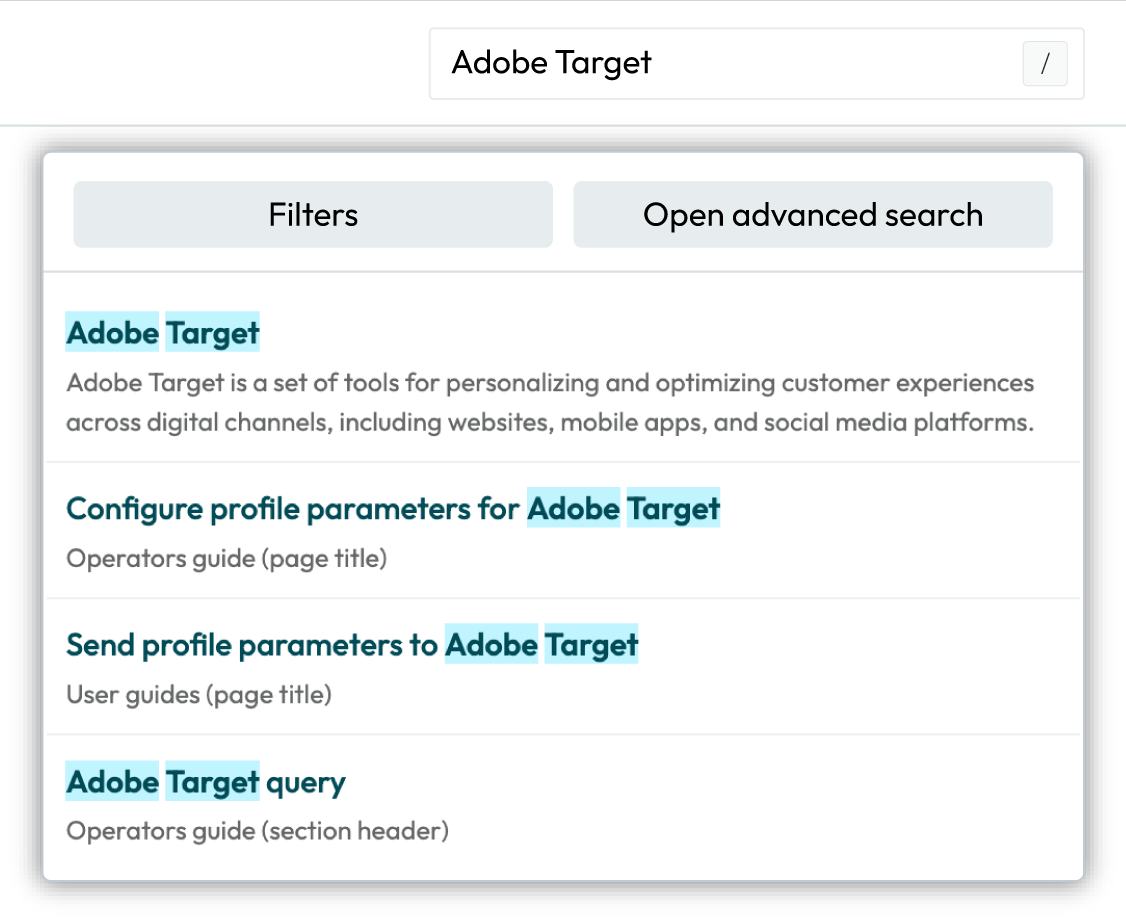
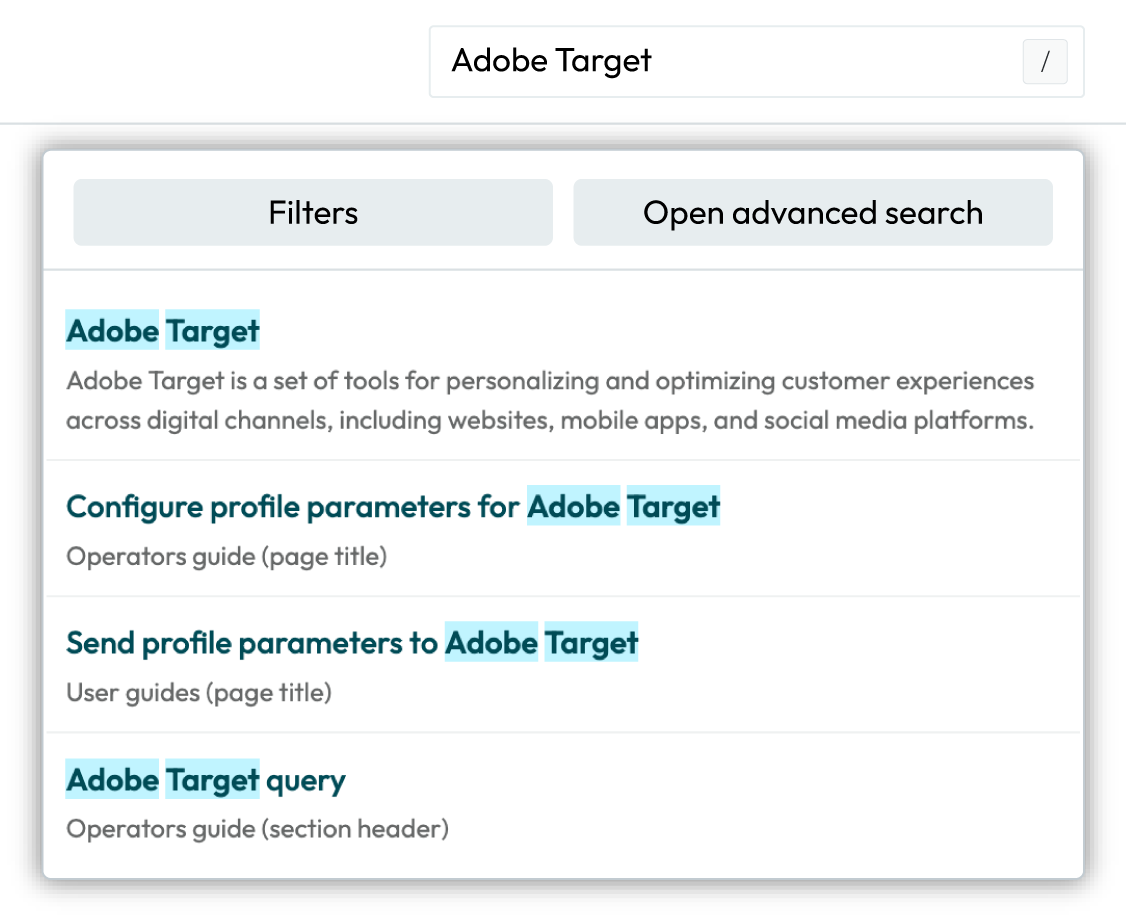
update mockup and resize

diff --git a/amperity_reference/source/about_search.rst b/amperity_reference/source/about_search.rst
@@ -39,7 +39,7 @@ Search from navigation
 Navigation search is pinned at the top of every page in the Amperity docs site.
 
 .. image:: ../../images/search-navigation.png
-   :width: 579 px
+   :width: 380 px
    :alt: Search the Amperity documentation site.
    :align: left
    :class: no-scaled-link
